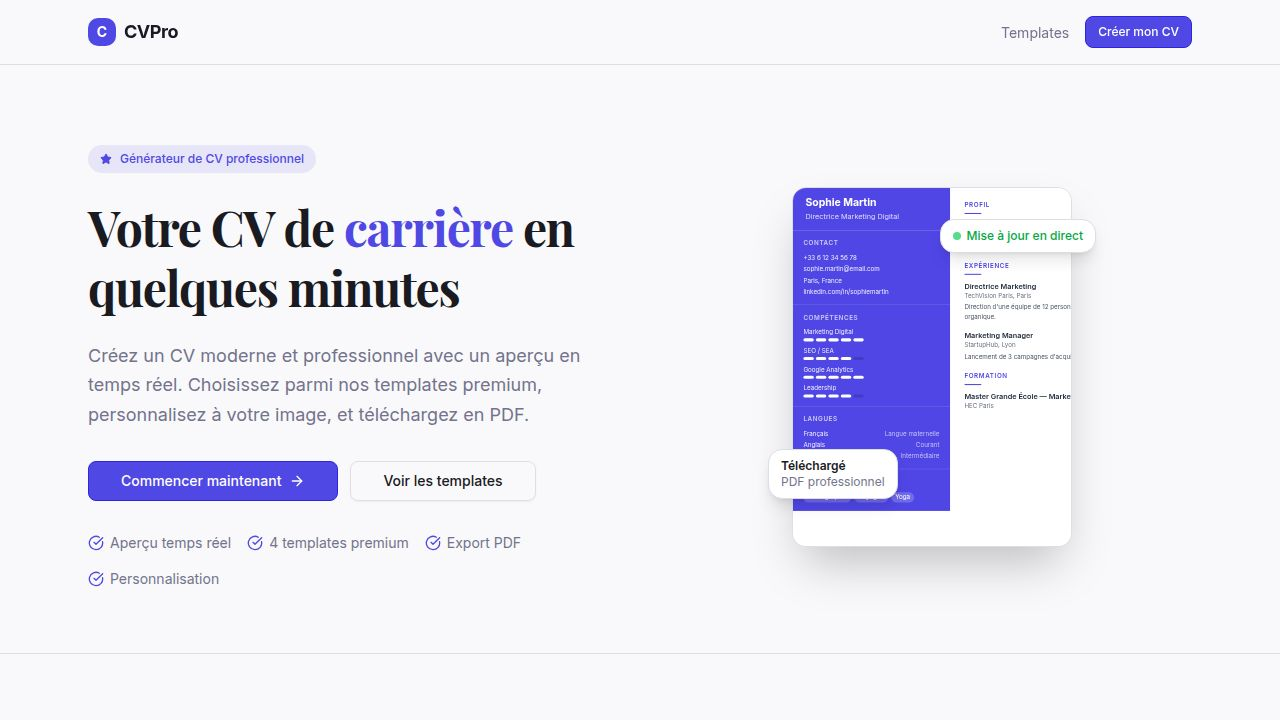
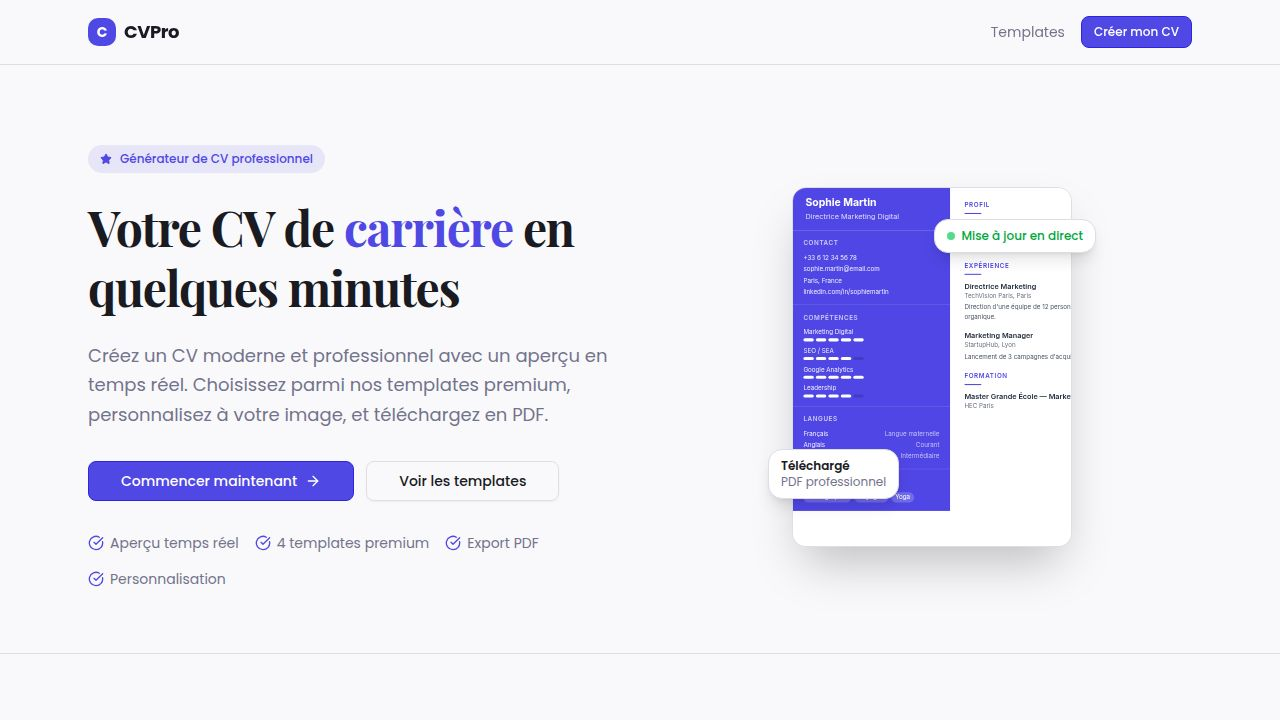
Update application to stabilize page and improve uploads
Increase server body limits for image uploads, disable hot module replacement to prevent page refreshes, and update the default font to Poppins.

Replit-Commit-Author: Agent
Replit-Commit-Session-Id: 87039a58-9d37-4cae-86af-4cfc5c11ee2e
Replit-Commit-Checkpoint-Type: full_checkpoint
Replit-Commit-Event-Id: 1dfc65c9-5a3f-466b-810e-463c811c5d78
Replit-Commit-Screenshot-Url: https://storage.googleapis.com/screenshot-production-us-central1/e28b3a84-6cb5-48a4-a857-e650d5ccc3de/87039a58-9d37-4cae-86af-4cfc5c11ee2e/g51fThv
Replit-Helium-Checkpoint-Created: true

diff --git a/artifacts/cv-builder/src/index.css b/artifacts/cv-builder/src/index.css
@@ -1,4 +1,4 @@
-@import url('https://fonts.googleapis.com/css2?family=Inter:wght@300;400;500;600;700;800&family=Playfair+Display:wght@700;800&display=swap');
+@import url('https://fonts.googleapis.com/css2?family=Poppins:wght@300;400;500;600;700;800&family=Playfair+Display:wght@700;800&display=swap');
 @import "tailwindcss";
 @import "tw-animate-css";
 @plugin "@tailwindcss/typography";
@@ -110,7 +110,7 @@
   --chart-4: 40 90% 55%;
   --chart-5: 340 75% 55%;
 
-  --app-font-sans: 'Inter', sans-serif;
+  --app-font-sans: 'Poppins', sans-serif;
   --app-font-serif: 'Playfair Display', serif;
   --app-font-mono: Menlo, monospace;
   --radius: 0.625rem;

diff --git a/artifacts/api-server/src/app.ts b/artifacts/api-server/src/app.ts
@@ -26,8 +26,8 @@ app.use(
   }),
 );
 app.use(cors());
-app.use(express.json());
-app.use(express.urlencoded({ extended: true }));
+app.use(express.json({ limit: "15mb" }));
+app.use(express.urlencoded({ extended: true, limit: "15mb" }));
 
 app.use("/api", router);
 

diff --git a/artifacts/cv-builder/vite.config.ts b/artifacts/cv-builder/vite.config.ts
@@ -63,6 +63,7 @@ export default defineConfig({
     strictPort: true,
     host: "0.0.0.0",
     allowedHosts: true,
+    hmr: false,
     fs: {
       strict: true,
     },
